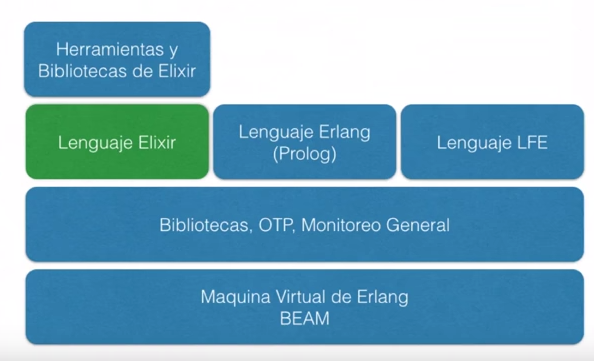
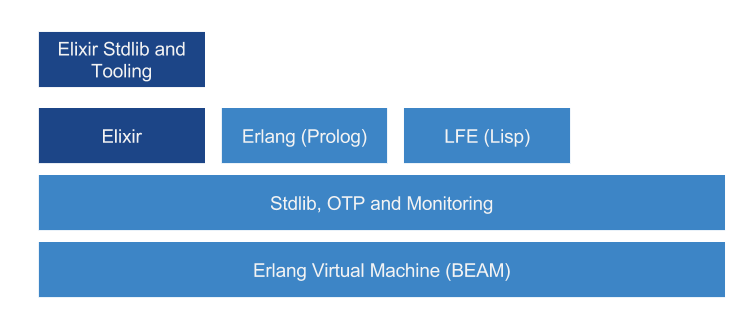
fixing tests and presentation

diff --git a/elixir_overview/index.html b/elixir_overview/index.html
@@ -24,7 +24,7 @@
        .logo {border: none !important; padding: 20px !important;}
        #rails_logo   { width: 100px; }
        #erlang_logo  { width: 200px; }
-       #elixir_logo  { width: 600px; box-shadow: none;}
+       #elixir_logo  { width: 500px; box-shadow: none;}
        #elixir_small { width: 200px; box-shadow: none; margin: 0px; border: none; }
        #processes    { width: 200px; }
        .image        { width: 400px; }
@@ -37,20 +37,17 @@
         <section>
           <img id="elixir_logo" src="./images/elixir-vertical.png" alt="elixir" class="logo"/>
           <p>An Elixir Overview</p>
-          <br/>
           <p>Cristian Vasquez</p>
         </section>
 
         <section>
            <h3 class="title"><img id="elixir_small" src="./images/elixir_simple.png" alt="elixir"/>What is Elixir ?</h3>
-           <ul>
-             <li><strong>Functional</strong></li>
-             <li>Productive</li>
-             <li>Extensible</li>
-           </ul>
+           <blockquote cite="http://searchservervirtualization.techtarget.com/definition/Our-Favorite-Technology-Quotations">
+              &ldquo;Elixir is a dynamic, functional language designed for building scalable and maintainable applications.&rdquo;
+           </blockquote>
         </section>
         <section>
-            <h2 class="title">What makes a language functional?</h2>
+            <h3 class="title">What makes a language functional oriented?</h3>
             <ul>
                 <li>First class functions</li>
                 <li>High order functions</li>
@@ -60,7 +57,7 @@
             </ul>
         </section>
         <section>
-            <h3 class="title">Origin</h3>
+            <h3 class="title">Elixir Origin</h3>
             <img id="rails_logo" src="./images/Ruby_on_Rails.png" alt="" class="logo"/>
             <p>Creator Jose Valím, Rails core team member</p>
             <p><strong>Mission:</strong>=> To address Rails concurrency issues.</p>
@@ -79,10 +76,15 @@
         </section>
 
         <section>
+          <h2 class="title">Platform</h2>
+          <img src="./images/platform.png" alt="platform" class="logo">
+        </section>
+
+        <section>
           <h3 class="title">Who is using Erlang?</h3>
           <ul>
             <li><strong>Whatsapp</strong>=>Chat service</li>
-            <li><strong>Facebool</strong> => Chat service</li>
+            <li><strong>Facebook</strong> => Chat service</li>
             <li><strong>Amazon</strong> => SimpleDB</li>
             <li><strong>Ericsson</strong>=> Node support, GPRS and 3G mobile networks</li>
             <li><strong>Heroku</strong>=> Routing layer </li>
@@ -90,18 +92,18 @@
         </section>
 
         <section>
-          <h2 class="title">Platform</h2>
-          <img src="./images/platform.png" alt="platform" class="logo">
+          <h3 class="title">Who is using Elixir?</h3>
+          <a href="https://github.com/doomspork/elixir-companies">https://github.com/doomspork/elixir-companies</a>
         </section>
 
         <section>
           <h1>Show me the code !!</h1>
-          <h2>Languaje features</h2>
+          <h2>Language features</h2>
         </section>
 
         <section>
             <h3 class="title">Structure</h3>
-            <p>Code is structured in functions and modules, and extended with macros and behaviours</p>
+            <p>Code is structured in functions, modules and extended with macros and behaviours</p>
             <pre>
               <code class="elixir" data-trim contenteditable style="font-size: 18px;">
                   defmodule Hello do
@@ -123,7 +125,7 @@
                       <p>the end of "=" as you knew it</p>
                       <pre>
                         <code class="elixir" data-trim contenteditable style="font-size: 18px;">
-                               x = "hola"
+                               x = "hello"
                                {x, y} = {2, 3}
                                # x -> 2
                                # y -> 3
@@ -143,22 +145,19 @@
                       <pre>
                         <code class="elixir" data-trim contenteditable style="font-size: 18px;">
 
-                            def hello_world(messaje) do
-                                IO.puts mensaje
+                            def hello_world(message) do
+                                IO.puts mensarge
                             end
 
-                            def hello_world(messaje, param) do
-                                IO.puts "#{mensaje} #{param}"
+                            def hello_world(message, name) do
+                                IO.puts "#{mensage} #{name}"
                             end
 
-                            defmodule MyMath do
-                              def sum(list), do: _sum(list, 0)
+                            iex> hello_world("hello")
+                            ...> "hello"
+                            iex> hello_workd("hello", "world")
+                            ...> "hello world"
 
-                              defp _sum([], total), do: total
-                              defp _sum([ head | tail ], total) do
-                                   _sum(tail, total + head)
-                              end
-                            end
 
                         </code>
                       </pre>
@@ -211,7 +210,7 @@
                       <li>Atoms</li>
                       <li>Regex</li>
                       <li>Ranges</li>
-                      <li>PIDS and Ports</li>
+                      <li>Pids and Ports</li>
                       <li>Binaries</li>
                       <li>Date and Times</li>
                   </ul>
@@ -219,11 +218,11 @@
               <section>
                   <h3>Collection Types</h3>
                   <ul>
-                    <li><strong>Struct</strong> => defmodule User, do: defstruct name: "John", age: 27</li>
                     <li><strong>Tuples</strong> => {1, "a", true, :var}</li>
-                    <li><strong>Lists</strong> => [1, "a", true, :var]</li>
+                    <li><strong>Lists</strong> => [1, "a", true, :var] =~ [ 1 | [ "a" | [  true | [:var | []]]]]   </li>
                     <li><strong>Keyword List</strong> => [name: "john", age: 22, single: true]</li>
                     <li><strong>Maps</strong> => %{:name => "john", :age => 22, :single => true}</li>
+                    <li><strong>Struct</strong> => defmodule User, do: defstruct name: "John", age: 27</li>
                   </ul>
               </section>
         </section>
@@ -302,7 +301,7 @@
         <section>
           <h2 class="title">Tooling</h2>
           <ul>
-              <li>iex</li>
+              <li>IEx</li>
               <li>Hex</li>
               <li>Mix</li>
               <li>ExUnit</li>
@@ -359,17 +358,18 @@
          <ul>
            <li>Genservers, Agents, Tasks, Flow, etc.</li>
            <li>Supervisors</li>
-           <li>Hotcode swapping</li>
+           <li>Hot code swapping</li>
          </ul>
         </section>
 
         <section>
             <h3 class="title">Pending more advance stuff</h3>
             <ul>
-              <li>Hotcode swapping</li>
+              <li>Hot code swapping</li>
               <li>Macros</li>
               <li>Protocols</li>
-              <li>Deployment exrm / desilery </li>
+              <li>Deployment exrm / destilery </li>
+              <li>Distributed Elixir</li>
             </ul>
         </section>
 
